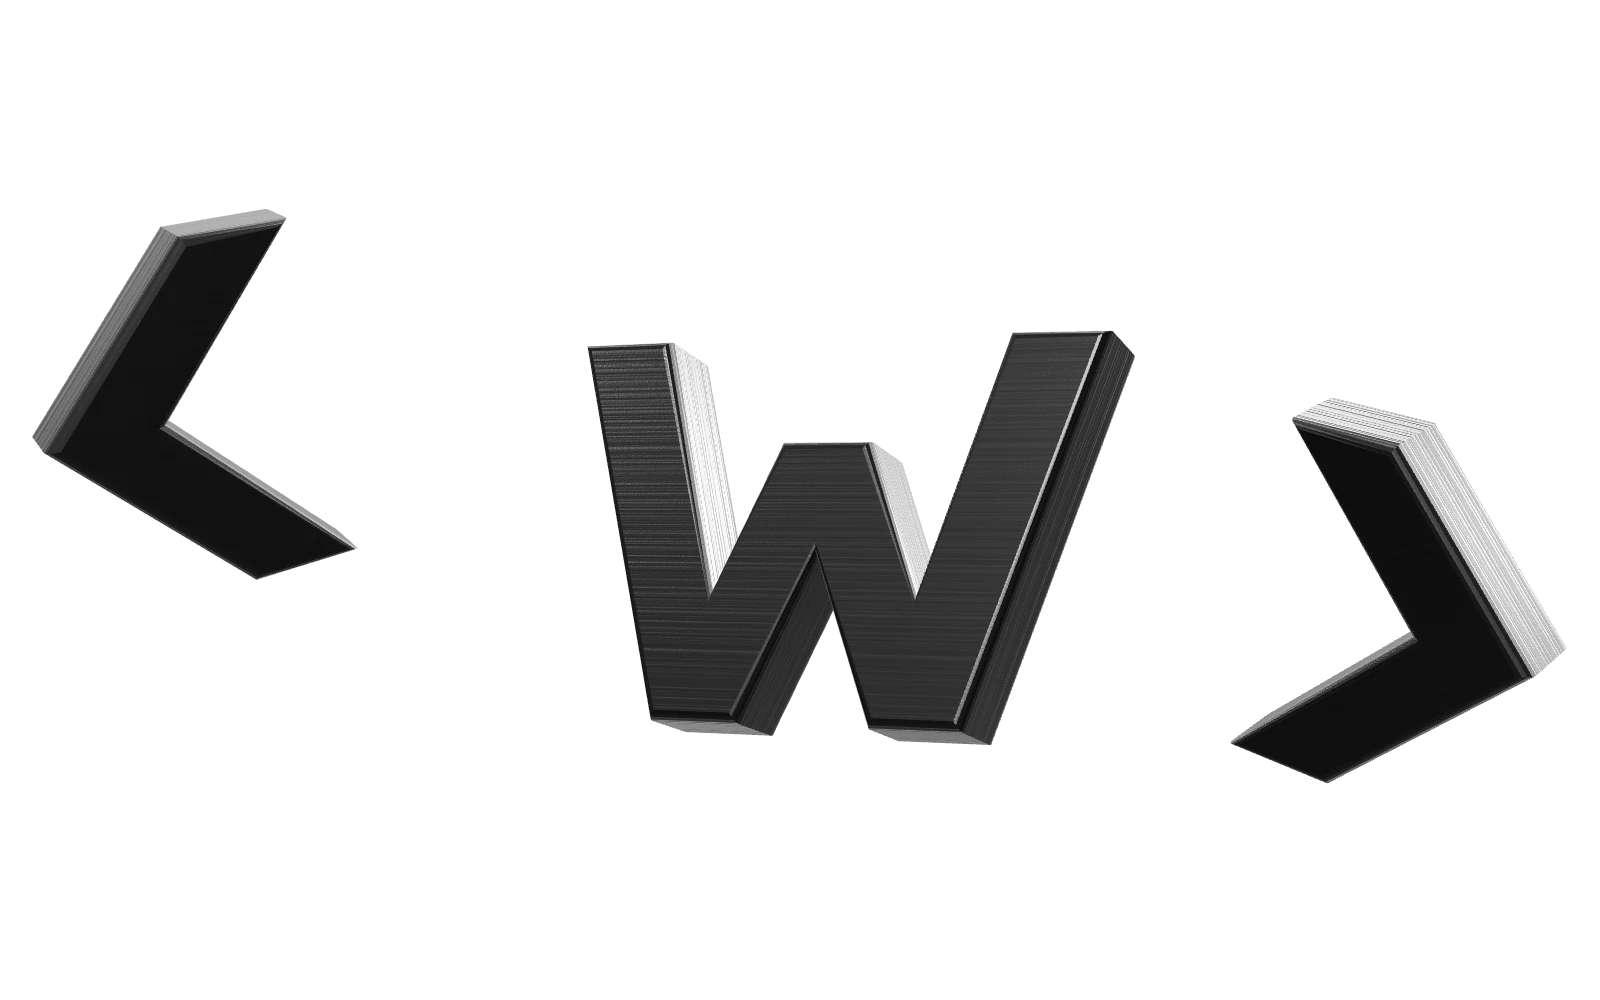
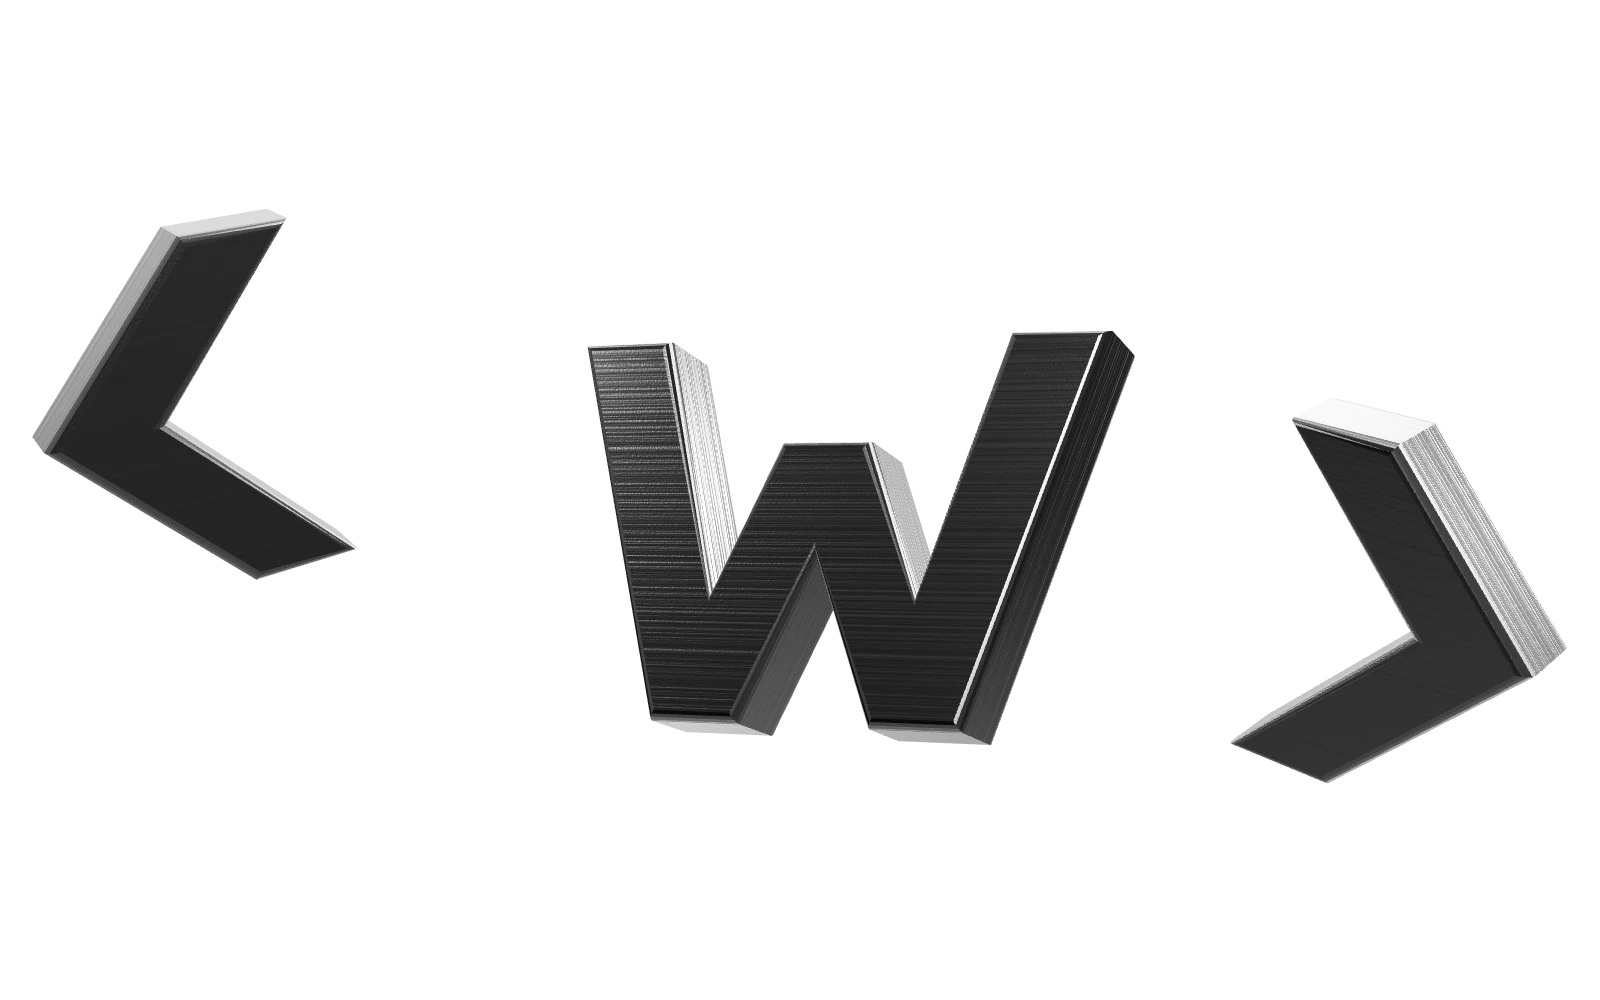
Símbolo en cerámica negra con laca y posters renderizados de nuevo

diff --git a/src/components/marketing/home3d/escena.ts b/src/components/marketing/home3d/escena.ts
@@ -34,6 +34,8 @@ export interface OpcionesEscena {
   alPintar?: () => void;
   /** Llamado si el rendimiento no alcanza ni con la calidad mínima: vuelve el poster. */
   alRendirse?: () => void;
+  /** Forzado (`?simbolo=3d`): baja la resolución pero nunca se rinde (capturas con WebGL por software). */
+  sinRendirse?: boolean;
 }
 
 export interface Escena {
@@ -85,7 +87,7 @@ export function montarEscena(canvas: HTMLCanvasElement, op: OpcionesEscena): Esc
   const pmrem = new PMREMGenerator(renderer);
   const entorno = pmrem.fromScene(new RoomEnvironment(), 0.04).texture;
   scene.environment = entorno;
-  scene.environmentIntensity = 1.25;
+  scene.environmentIntensity = 1.5;
 
   // El canvas siempre mide 16:10 (igual que el poster): a esta distancia entran 8 unidades a lo ancho.
   const camara = new PerspectiveCamera(24, ASPECTO, 0.1, 100);
@@ -107,13 +109,13 @@ export function montarEscena(canvas: HTMLCanvasElement, op: OpcionesEscena): Esc
   textura.repeat.set(0.9, 0.9);
   const metal = new MeshPhysicalMaterial({
     color: new Color(HOME3D.metal),
-    metalness: 0.9,
-    roughness: 0.3,
+    metalness: 0.55,
+    roughness: 0.24,
     roughnessMap: textura,
     bumpMap: textura,
     bumpScale: 0.35,
-    clearcoat: 0.35,
-    clearcoatRoughness: 0.5,
+    clearcoat: 1,
+    clearcoatRoughness: 0.08,
   });
   const cantidadGrilla = { value: 0 };
   const grilla = materialGrilla(cantidadGrilla);
@@ -248,7 +250,7 @@ export function montarEscena(canvas: HTMLCanvasElement, op: OpcionesEscena): Esc
       if (cuadros === 40) {
         if (acumulado / cuadros > 28) {
           bajadas++;
-          if (bajadas > 2) {
+          if (bajadas > 2 && !op.sinRendirse) {
             op.alRendirse?.();
             return;
           }
